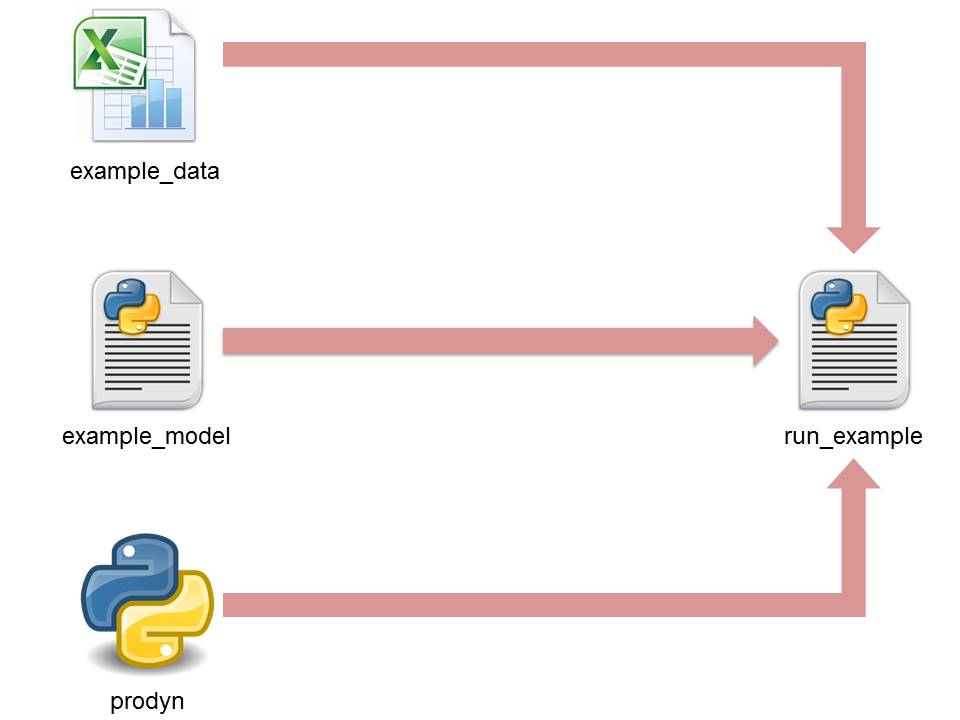
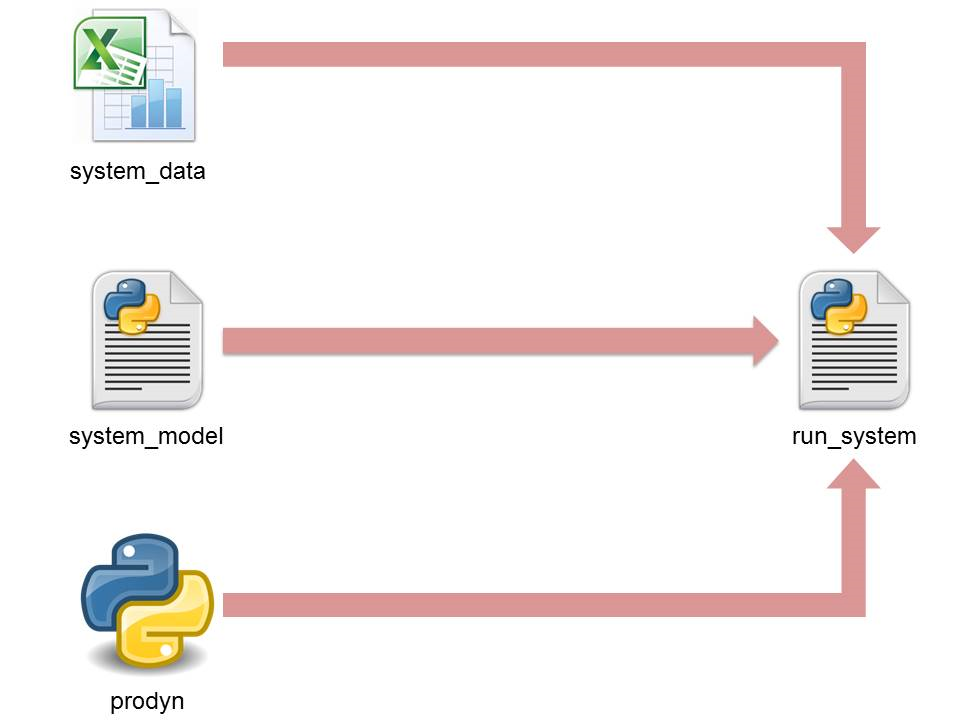
doc updates

Changed region(s): [[0.0625, 0.5806, 0.25, 0.6417], [0.8125, 0.5806, 0.9688, 0.6417], [0.0625, 0.2139, 0.2188, 0.275]]

diff --git a/doc/prodyn.rst b/doc/prodyn.rst
@@ -4,9 +4,10 @@
 
 Prodyn
 ============
-**Prodyn** is an autonomous file, which is written in python and can be used with any example. This is the core and driving force of every dynamic programming implementation. Three main **Prodyn's** functions are described below in details.       
+**Prodyn** is an autonomous file, which is written in python and can be used with any example. This is the core and driving force of every dynamic programming implementation. Three main **prodyn's** functions are described below in details.       
 
-prepare_DP 
+.. _prepareDP-ref:
+prepare DP 
 ^^^^^^^^
 The goal of **prepare_DP** is a creation of several arrays, which will be used subsequently. The simplified procedure of the creation for 1 and 2 states random examples is presented in the Figure 6.
 
@@ -19,9 +20,9 @@ The goal of **prepare_DP** is a creation of several arrays, which will be used s
 The table with states of the system, which is stored in **DP-States** sheet of **Example_data**, plays a role of input for the **prepare_DP**. Three new arrays are the main returns of the function. **X** is an array containing every possible condition of the system. It's size depends on the number of system's states. For example, any  condition of the system with 2 states is always characterized by two variables and **X** is, consequently, 2d. In addition, every system's condition corresponds to the specific number. These numbers are stored in an array **Xidx**, which is always 1-d. The third return **XX** is an array of arrays, from which **X** is built. In other words, **X** is the cartesian product of **XX**.       
 
 
-DP_forward
+DP forward
 ^^^^^^^^
 bla-bla
 
-DP_backward
+DP backward
 ^^^^^^^^

diff --git a/doc/system_model.rst b/doc/system_model.rst
@@ -1,0 +1,20 @@
+.. currentmodule:: prodyn
+
+.. _system_model:
+
+System Model
+========================
+**System_model** is a file, which is written in python and should be created specifically for the current system. The main part of it is a function, which describes the transition of the system from one timestep to another one. Figure 5 gives simplified illustration of this transition.  
+
+.. figure:: img/model.png
+   :width: 80%
+   :align: center
+   
+   Figure 5: System transition from timestep **i** to **j**
+   
+System's condition at timestep **i** is defined by an array **X**, which is built from the **DP-States** data in excel-form. The process of **X** formation is fully described in one of the next subchapters :ref:` prepare DP <prepareDP-ref>`. Main function of the **system_model** calculates the transition from **i** to **j** in dependance of each decision from the list of possible ones **U**. Results of the calculation are an array **Xj**, which describes the condition of the system at timestep **j**, and the **cost** of the transition for each possible decision from **U**.       
+
+
+
+
+

diff --git a/doc/overview.rst b/doc/overview.rst
@@ -14,7 +14,7 @@ Simplified diagram of the process and connection between documents involved in i
    
    Figure 1: Scheme of the dynamic programming implementation
    
-According to the diagram any implemetation consists of four files. Three of them (example_data, example_model and run_example) are specified and should be created for each current example. The fourth one (prodyn) is autonomous and can be used with any example without modifications. 
+According to the diagram any implemetation consists of four files. Three of them (system_data, system_model and run_system) are specified and should be created for each current example. The fourth one (prodyn) is autonomous and can be used with any example without modifications. 
 
 
 

diff --git a/doc/system_data.rst b/doc/system_data.rst
@@ -1,10 +1,10 @@
 .. currentmodule:: prodyn
 
-.. _example_data:
+.. _system_data:
 
-Example_data
+System Data
 ========================
-**Example_data** is a file in excel-form. It stores an information about a system, which operation should be controlled in an optimal way. All data is split between four sheets: **Time-Series**, **Constants**, **DP-States** and **DP-Decisions**. Each of this sheet is described below. 
+**System_data** is a file in excel-form. It stores an information about a system, which operation should be controlled in an optimal way. All data is split between four sheets: **Time-Series**, **Constants**, **DP-States** and **DP-Decisions**. Each of this sheet is described below. 
 
 Time-Series
 ^^^^^^^^

diff --git a/doc/index.rst b/doc/index.rst
@@ -30,10 +30,10 @@ This documentation contains the following pages:
    :maxdepth: 1
 
    overview
-   example_data
-   example_model
+   system_data
+   system_model
    prodyn
-   run_example
+   run_system
    examples
    
 

diff --git a/doc/run_system.rst b/doc/run_system.rst
@@ -1,8 +1,8 @@
 .. currentmodule:: prodyn
 
-.. _run_example:
+.. _run_system:
 
-Run_example
+Run System
 ============
 
 
